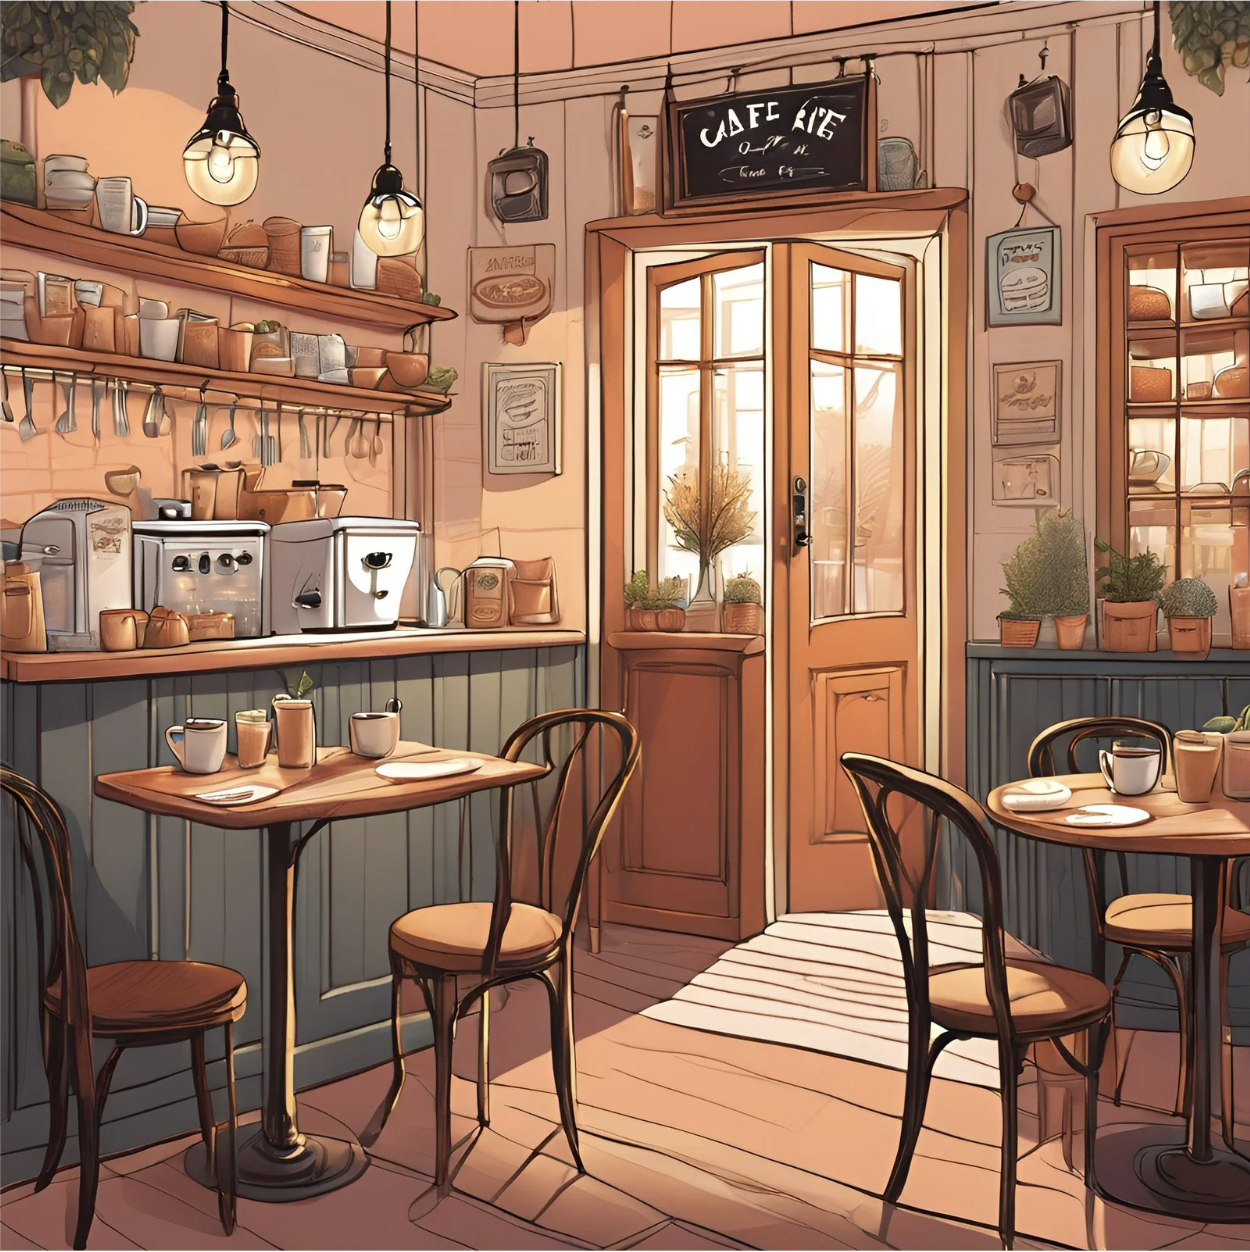
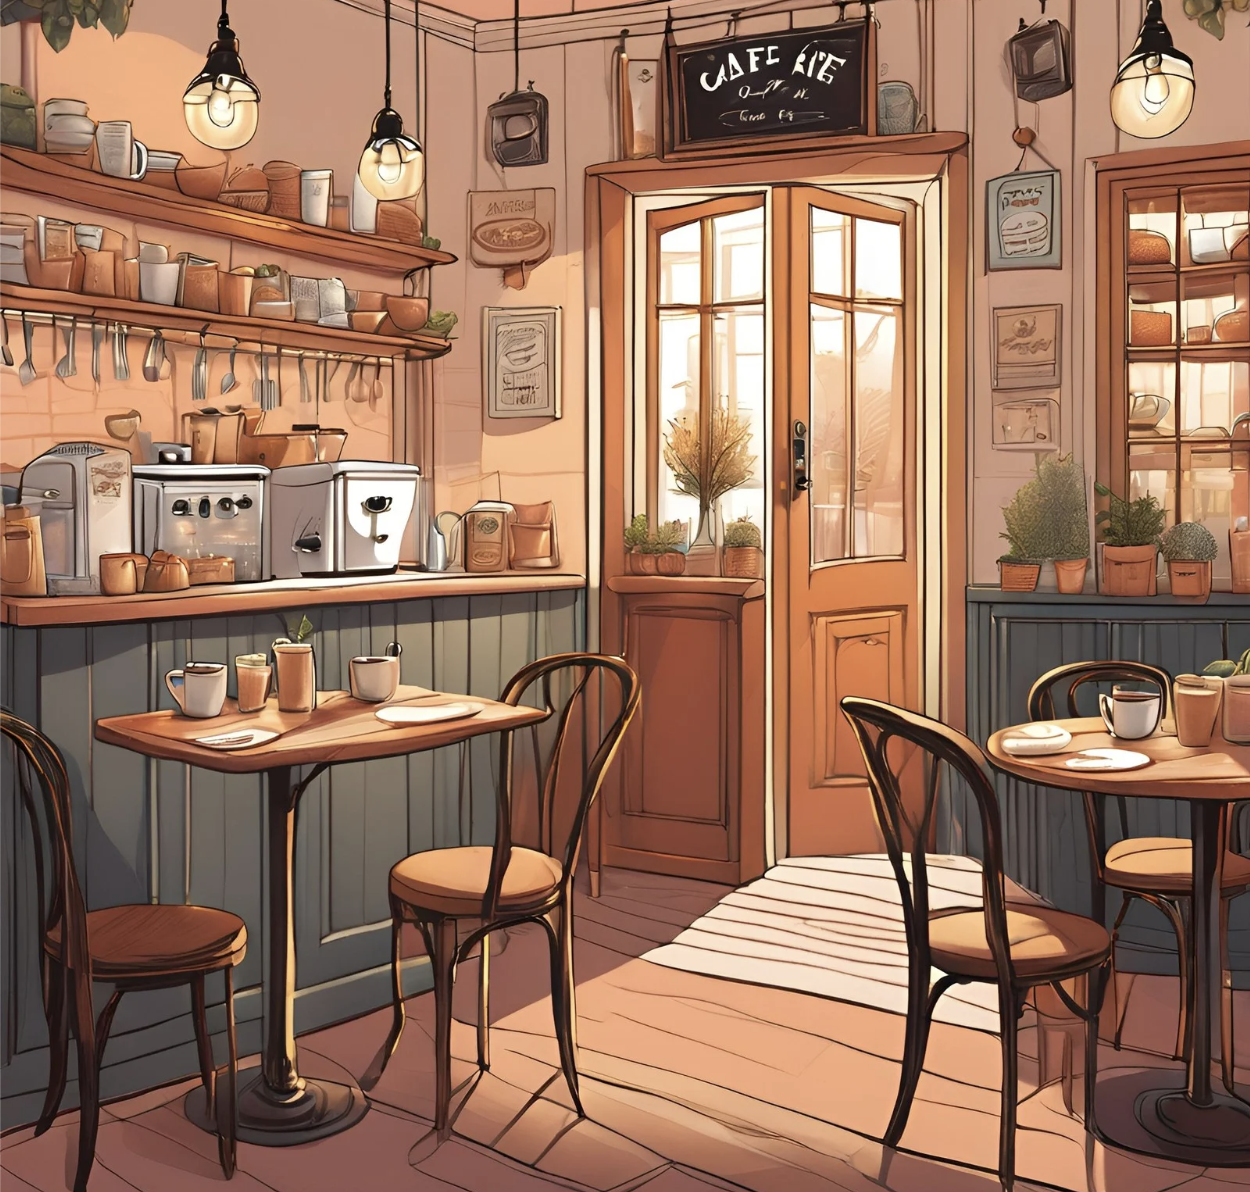
home page cafe design background

diff --git a/frontend/src/components/cafe/IngredientsDialog.jsx b/frontend/src/components/cafe/IngredientsDialog.jsx
@@ -7,6 +7,7 @@ import DialogContentText from '@mui/material/DialogContentText';
 import DialogTitle from '@mui/material/DialogTitle';
 import Slide from '@mui/material/Slide';
 import CollectableIngredients from './CollectableIngredients';
+import { Input } from '@mui/material';
 
 import { useState } from 'react';
 
@@ -15,7 +16,8 @@ const Transition = React.forwardRef(function Transition(props, ref) {
   return <Slide direction="up" ref={ref} {...props} />;
 });
 
-const IngredientsDialog = () => {
+const IngredientsDialog = (props) => {
+  const [numsteps, setNumSteps] = useState(20);
   const [open, setOpen] = useState(false);
 
   const handleClickOpen = () => {
@@ -41,14 +43,16 @@ const IngredientsDialog = () => {
       >
         <DialogTitle>{"Ingredients"}</DialogTitle>
         <DialogContent>
+          Cash in your steps here:
+          <Input type="file">xml file upload</Input> {/* make sure it is disabled first */}
           <DialogContentText id="alert-dialog-slide-description">
-            On your way out to collect ingredients
+            You have this many steps/currency: {numsteps} steps
           </DialogContentText>
           <CollectableIngredients></CollectableIngredients>
         </DialogContent>
 
         <DialogActions>
-          <Button onClick={handleClose}>Let's Go!</Button> {/* make sure it is disabled first */}
+          <Button onClick={handleClose}>Collect!</Button> {/* make sure it is disabled first */}
         </DialogActions>
       </Dialog>
     </>

diff --git a/frontend/src/components/cafe/Home.jsx b/frontend/src/components/cafe/Home.jsx
@@ -1,22 +1,19 @@
 import React from 'react';
-import bg from '../../assets/home.png';
+import bg from '../../assets/home2.png';
 import CafeButton from '../CafeButton';
 import '../../cafe.css';
 import IngredientsDialog from './IngredientsDialog';
 
 const Home = () => {
   // modal pop up for grabbing ingredients
-
-
   return (
     <div className="mobile">
       {/* level status bar here! */}
 
       <div className='bg-container'>
         <img src={bg} alt='cafe background' className="cafe-bg"></img>
-        <div className="ingredients-run-button">
+        {/* <div className="ingredients-run-button">
           <IngredientsDialog></IngredientsDialog>
-          {/* <CafeButton location="/" content="Grab Ingredients"></CafeButton> */}
           <CafeButton location="/ingredients-run" content="↗"></CafeButton>
         </div>
         <div className="display-cabinet-button">
@@ -26,7 +23,7 @@ const Home = () => {
         <div className="kitchen-button">
           <CafeButton location="/" content="Kitchen"></CafeButton>
           <CafeButton location="/kitchen" content="←"></CafeButton>
-        </div>
+        </div> */}
       </div>
 
     </div>

diff --git a/frontend/src/App.css b/frontend/src/App.css
@@ -1,5 +1,6 @@
 * {
   font-family: Arial, Helvetica, sans-serif;
+  overflow: hidden;
 }
 
 .App {
@@ -12,10 +13,8 @@
   align-items: center;
   justify-content: center;
   color: black;
-  width: 400px;
-  height: 800px;
-  background-color: black;
   margin: auto;
+  background-color: #FABF8C;
 }
 
 @media (prefers-reduced-motion: no-preference) {

diff --git a/frontend/src/cafe.css b/frontend/src/cafe.css
@@ -10,9 +10,6 @@
 .cafe-bg {
   display: block;
   object-fit: cover;
-  object-position: 25% 25%;
-  width: 400px;
-  height: 800px;
 }
 
 .ingredients-run-button {
